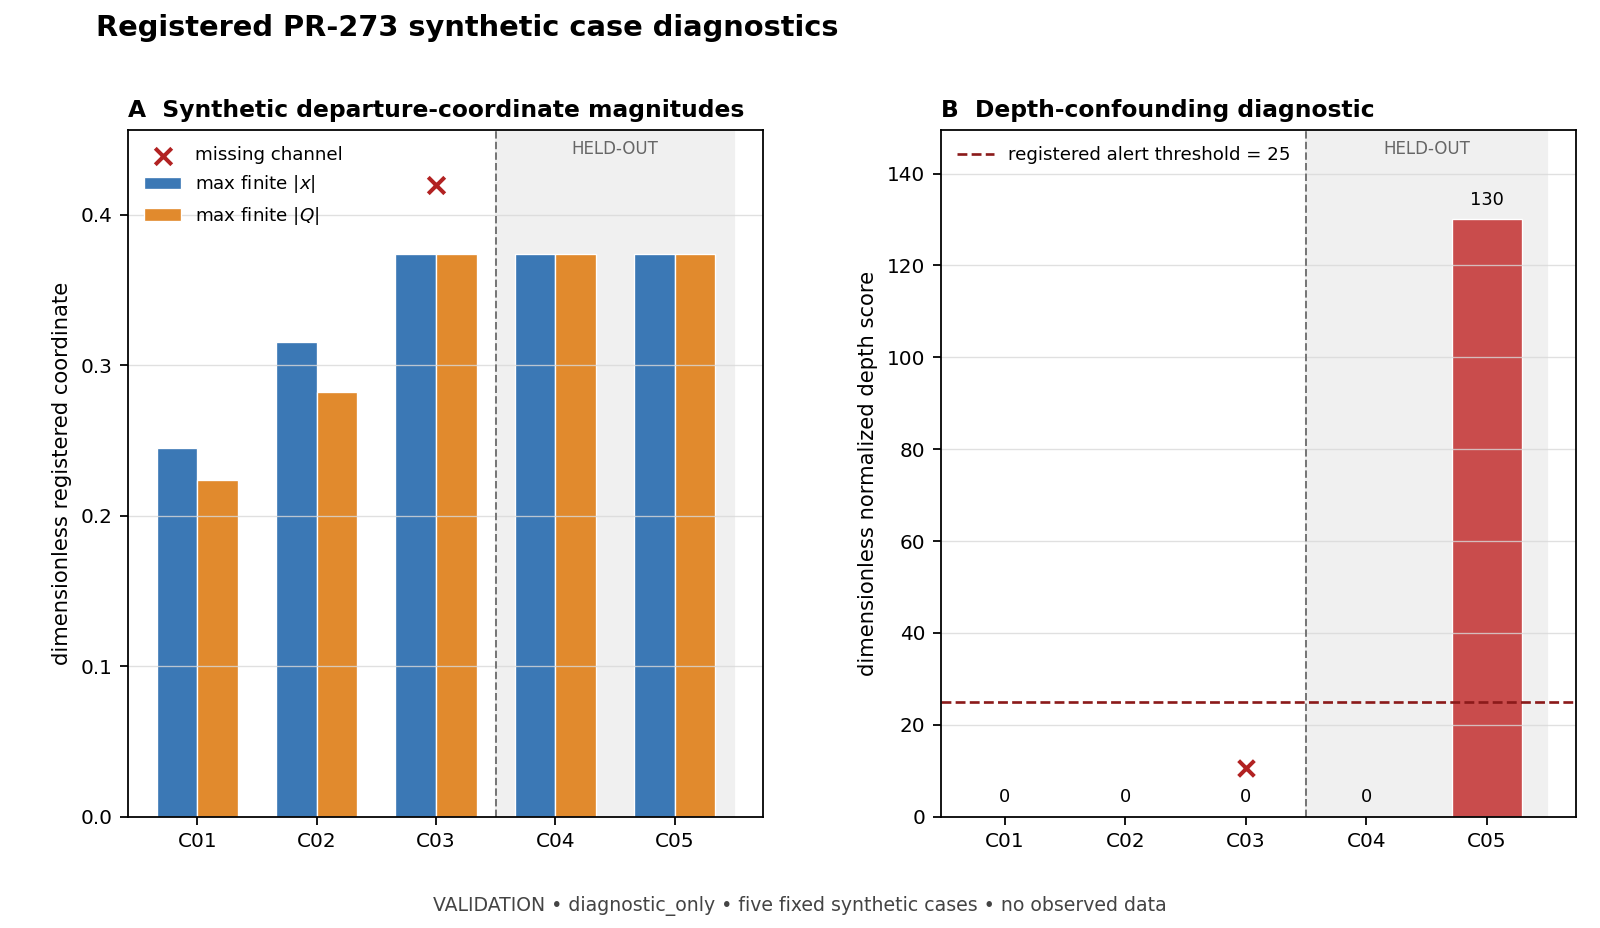
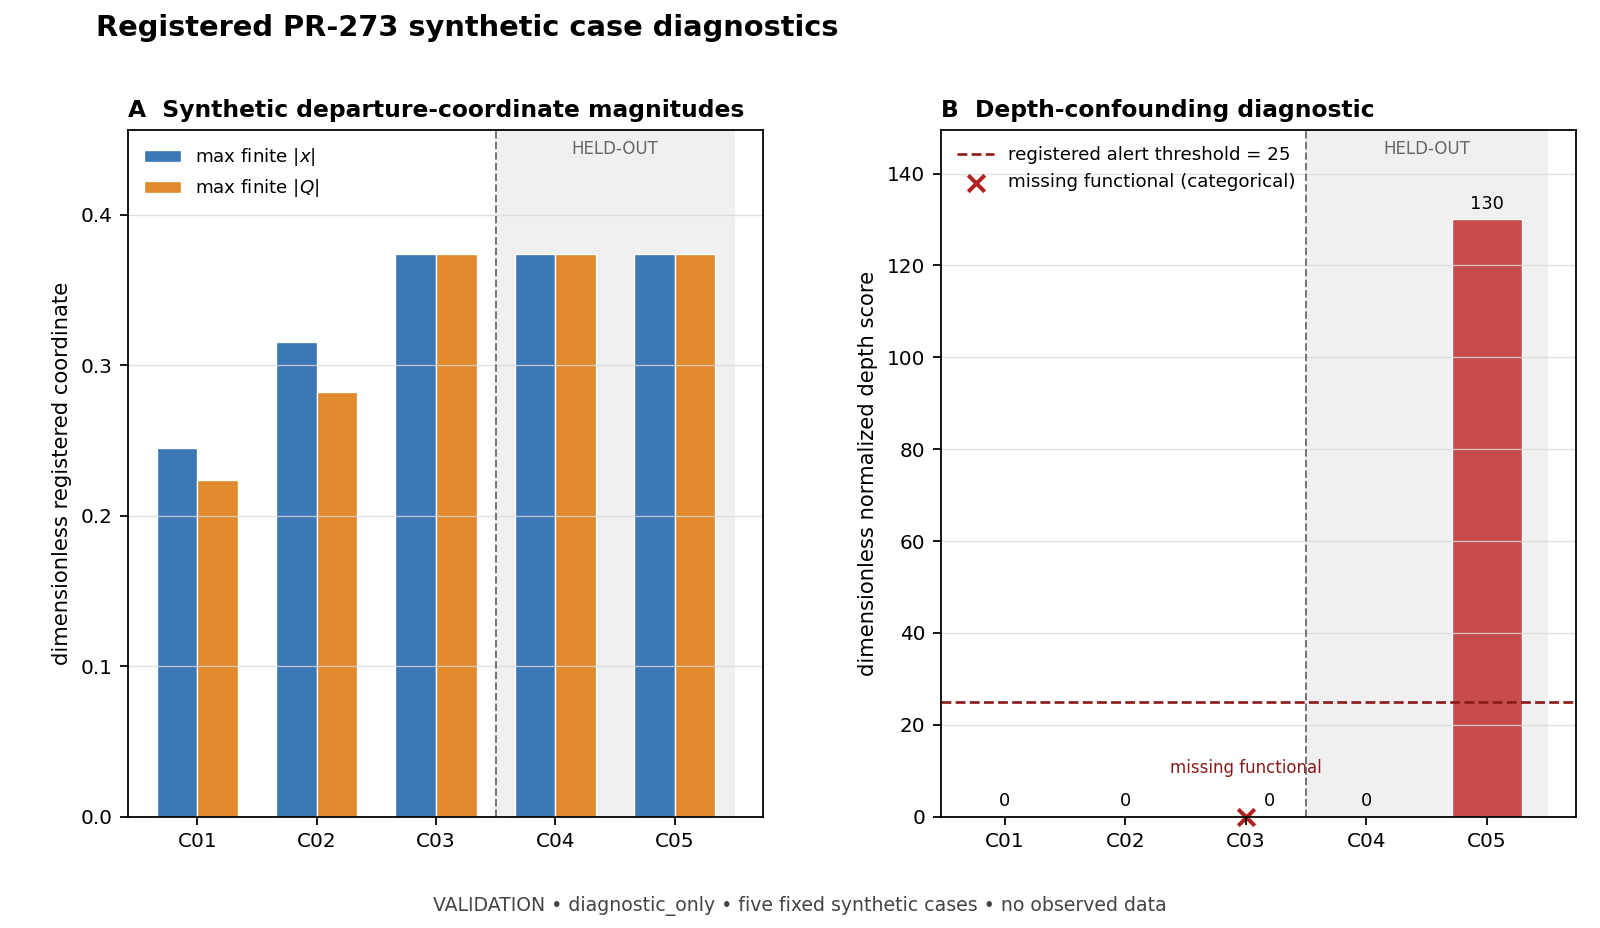
PR-275: correct report encoding and replay guards

diff --git a/scripts/vector_tensor/build_pr275_proof_atlas.py b/scripts/vector_tensor/build_pr275_proof_atlas.py
@@ -30,6 +30,7 @@ os.environ.setdefault("MPLCONFIGDIR", "/tmp/htt-pr275-matplotlib-cache")
 
 ROOT = Path(__file__).resolve().parents[2]
 SPEC = ROOT / "docs/research_program/vector_tensor/pr275_spec.yaml"
+RUNNER = ROOT / "scripts/codex_harness/run_pr275_report.py"
 REPORT_DIR = ROOT / "docs/research_program/vector_tensor/report"
 ATLAS_JSON = REPORT_DIR / "PROOF_ATLAS.json"
 ATLAS_MD = REPORT_DIR / "PROOF_ATLAS.md"
@@ -515,6 +516,38 @@ def build_proof_atlas(
     proposal_entries = _require_records(proposal.get("entries"), label="proposal entries")
     if len(proposal_entries) != 58:
         raise RuntimeError("proposal registry row count drifted")
+    proposal_ids = [record.get("id") for record in proposal_entries]
+    if any(not isinstance(entry_id, str) or not entry_id for entry_id in proposal_ids):
+        raise RuntimeError("proposal registry contains an invalid id")
+    if len(set(proposal_ids)) != len(proposal_ids):
+        raise RuntimeError("proposal registry contains duplicate ids")
+    signature_proposal_rows = [
+        record
+        for record in source_rows
+        if record["source_group"] == "proposal_registry_rows"
+    ]
+    proposal_contract = [
+        (
+            record.get("id"),
+            record.get("pillar"),
+            record.get("status"),
+            record.get("statement"),
+        )
+        for record in proposal_entries
+    ]
+    signature_contract = [
+        (
+            record["entry_id"],
+            record["source_partition"],
+            record["source_status"],
+            record["statement"],
+        )
+        for record in signature_proposal_rows
+    ]
+    if proposal_contract != signature_contract:
+        raise RuntimeError(
+            "proposal registry rows disagree with the frozen v3 source registry"
+        )
     proposal_rows = [
         {
             "id": record.get("id"),
@@ -675,9 +708,16 @@ def build_synthetic_analysis(
     expected_ids = list(contract["exact_case_ids"])
     if [case.get("case_id") for case in cases] != expected_ids:
         raise RuntimeError("PR-273 synthetic case membership/order drifted")
+    verdict_ids = [record.get("case_id") for record in verdicts]
+    if verdict_ids != expected_ids:
+        raise RuntimeError("PR-273 case-verdict membership/order drifted")
+    for record in verdicts:
+        scenario = record.get("scenario")
+        if not isinstance(scenario, str) or not scenario.strip():
+            raise RuntimeError(
+                f"PR-273 case verdict {record.get('case_id')!r} lacks a scenario"
+            )
     scenario_by_id = {record.get("case_id"): record.get("scenario") for record in verdicts}
-    if set(scenario_by_id) != set(expected_ids):
-        raise RuntimeError("PR-273 case-verdict membership drifted")
 
     def finite_abs_max(values: object, *, label: str) -> float:
         if not isinstance(values, list):
@@ -755,7 +795,19 @@ def build_synthetic_analysis(
             "max_finite_abs_x": "dimensionless registered normalized diagnostic coordinate",
             "max_finite_abs_q": "dimensionless registered normalized stress coordinate",
             "depth_mean_normalized_score": "dimensionless normalized score",
+            "missing_functional": "categorical boolean; no numeric unit",
             "case_id": "categorical",
+        },
+        "categorical_encodings": {
+            "missing_functional": {
+                "source_type": "boolean",
+                "true_marker": "x",
+                "panel": "B",
+                "data_coordinate_anchor": "depth_mean_normalized_score",
+                "label": "missing functional",
+                "label_position": "display-only point offset from the data anchor",
+                "display_offset_has_data_semantics": False,
+            }
         },
         "normalization": {
             "x_q": "finite absolute maximum within each case; no cross-case rescaling",
@@ -846,9 +898,6 @@ def build_figure_bytes(analysis: Mapping[str, object]) -> bytes:
         fontsize=7.5,
     )
     y_top = max(float(x_values.max()), float(q_values.max())) * 1.22
-    for index, is_missing in enumerate(missing):
-        if is_missing:
-            axes[0].scatter(index, y_top * 0.92, marker="x", s=55, color="#b22222", linewidth=1.8, label="missing channel" if index == 2 else None)
     axes[0].set_ylim(0.0, y_top)
     axes[0].set_xticks(positions, case_ids)
     axes[0].set_ylabel("dimensionless registered coordinate")
@@ -872,9 +921,36 @@ def build_figure_bytes(analysis: Mapping[str, object]) -> bytes:
         fontsize=7.5,
     )
     for index, value in enumerate(depth):
-        axes[1].text(index, value + max(depth.max() * 0.018, 1.3), f"{value:g}", ha="center", va="bottom", fontsize=8)
+        axes[1].annotate(
+            f"{value:g}",
+            xy=(index, value),
+            xytext=((8, 3) if missing[index] else (0, 3)),
+            textcoords="offset points",
+            ha=("left" if missing[index] else "center"),
+            va="bottom",
+            fontsize=8,
+        )
         if missing[index]:
-            axes[1].scatter(index, threshold * 0.42, marker="x", s=50, color="#b22222", linewidth=1.8)
+            axes[1].scatter(
+                index,
+                value,
+                marker="x",
+                s=55,
+                color="#b22222",
+                linewidth=1.8,
+                clip_on=False,
+                label="missing functional (categorical)",
+            )
+            axes[1].annotate(
+                "missing functional",
+                xy=(index, value),
+                xytext=(0, 18),
+                textcoords="offset points",
+                ha="center",
+                va="bottom",
+                fontsize=7.5,
+                color="#8b1a1a",
+            )
     axes[1].set_ylim(0.0, max(depth.max() * 1.15, threshold * 1.35))
     axes[1].set_xticks(positions, case_ids)
     axes[1].set_ylabel("dimensionless normalized depth score")
@@ -952,6 +1028,7 @@ def build_figure_manifest(
         "normalization": analysis.get("normalization"),
         "frame": analysis.get("frame"),
         "coordinates": analysis.get("coordinates"),
+        "categorical_encodings": analysis.get("categorical_encodings"),
         "seed": analysis["source_pack"]["seed"],
         "generator": {
             "path": "scripts/vector_tensor/build_pr275_proof_atlas.py",
@@ -1080,6 +1157,10 @@ def build_replication_package(
     import numpy
 
     prereg = sources["pr272_preregistration"]["preregistration"]
+    workflow_identities = {
+        str(path.relative_to(ROOT)): "sha256:" + _sha256(path)
+        for path in (SPEC, Path(__file__).resolve(), RUNNER)
+    }
     payload: dict[str, object] = {
         "schema": "htt.pr275.replication_package.v1",
         "package_id": "PR275-REPLICATION-PACKAGE-V1",
@@ -1110,6 +1191,7 @@ def build_replication_package(
             "source_layout": "PYTHONPATH=htt/src:htt",
         },
         "source_identities": dict(source_hashes),
+        "workflow_identities": dict(sorted(workflow_identities.items())),
         "generated_artifact_identities": dict(generated_hashes),
         "seeds": {
             "pr272_master_seed": prereg["random_stream"]["master_seed"],
@@ -1208,7 +1290,7 @@ def build_program_report(
             "",
             "## Interpretation",
             "",
-            "The fixed cases exercise scalar-limit, tensor-only, missing-channel, local/global-degenerate, and mask/depth-confounded paths. C05 crosses the registered depth alert threshold; C03 retains a missing functional channel. These are pipeline-behavior diagnostics on the registered synthetic benchmark.",
+            "The fixed cases exercise scalar-limit, tensor-only, missing-channel, local/global-degenerate, and mask/depth-confounded paths. C05 crosses the registered depth alert threshold; C03 retains a missing functional channel. The C03 cross is anchored at its actual depth score of zero; its text uses a display-only point offset and carries no numerical y meaning. These are pipeline-behavior diagnostics on the registered synthetic benchmark.",
             "",
             "## What this plot does not show",
             "",
@@ -1233,7 +1315,7 @@ def build_program_report(
             "",
             "## Replication package",
             "",
-            f"`REPLICATION_PACKAGE.json` (`{replication['content_id']}`) records commands, environment versions, source identities, generated artifact hashes, PR-272 seed/tolerance contracts, the PR-273 seed/config identity, caveats, and the diagnostic-only claim ceiling.",
+            f"`REPLICATION_PACKAGE.json` (`{replication['content_id']}`) records commands, environment versions, frozen source identities, exact PR-275 spec/generator/runner workflow identities, generated artifact hashes, PR-272 seed/tolerance contracts, the PR-273 seed/config identity, caveats, and the diagnostic-only claim ceiling.",
             "",
             "## Claim boundary",
             "",

diff --git a/tests/contracts/test_vector_tensor_report.py b/tests/contracts/test_vector_tensor_report.py
@@ -29,6 +29,7 @@ S_INFERENCE = ROOT / "docs/research_program/vector_tensor/proofs/PILLAR_S_INFERE
 PR273_PACK = ROOT / "docs/research_program/vector_tensor/integration/PR273_DIAGNOSTIC_PACK.json"
 PR274_RESULT = ROOT / "docs/research_program/vector_tensor/data_admission/PR274_ADMISSION_RESULT.json"
 GENERATOR = ROOT / "scripts/vector_tensor/build_pr275_proof_atlas.py"
+RUNNER = ROOT / "scripts/codex_harness/run_pr275_report.py"
 REPORT_DIR = ROOT / "docs/research_program/vector_tensor/report"
 ATLAS = REPORT_DIR / "PROOF_ATLAS.json"
 ATLAS_MD = REPORT_DIR / "PROOF_ATLAS.md"
@@ -233,6 +234,7 @@ def test_synthetic_analysis_is_bound_to_five_registered_cases() -> None:
     assert analysis["source_pack"]["seed"] == pack["seed"] == 27320260730
     assert analysis["observed_data"] is False
     assert rows[2]["missing_functional"] is True
+    assert rows[2]["depth_mean_normalized_score"] == 0.0
     assert rows[4]["depth_mean_normalized_score"] == 130.0
     assert rows[4]["depth_alert"] is True
     for source_record, derived in zip(pack["case_results"], rows, strict=True):
@@ -254,6 +256,16 @@ def test_figure_is_exactly_one_validation_category_and_synthetic_only() -> None:
     assert manifest["transfer_source"] == "none"
     assert manifest["sky_support_status"] == "synthetic_not_applicable"
     assert manifest["source_json"]["path"].endswith("SYNTHETIC_CASE_ANALYSIS.json")
+    assert manifest["units"]["missing_functional"] == "categorical boolean; no numeric unit"
+    assert manifest["categorical_encodings"]["missing_functional"] == {
+        "source_type": "boolean",
+        "true_marker": "x",
+        "panel": "B",
+        "data_coordinate_anchor": "depth_mean_normalized_score",
+        "label": "missing functional",
+        "label_position": "display-only point offset from the data anchor",
+        "display_offset_has_data_semantics": False,
+    }
     with Image.open(BytesIO(FIGURE.read_bytes())) as image:
         assert image.format == "PNG"
         assert image.size == (1600, 928)
@@ -280,6 +292,8 @@ def test_report_has_plot_summary_provenance_and_explicit_nonclaims() -> None:
 
 
 def test_replication_package_carries_commands_environment_seeds_and_tolerances() -> None:
+    import hashlib
+
     package = _json(REPLICATION)
     assert package["claim_ceiling"] == "diagnostic_only"
     assert package["observed_data"] is False
@@ -297,6 +311,10 @@ def test_replication_package_carries_commands_environment_seeds_and_tolerances()
     assert package["tolerances_and_acceptance"]["pr272_rank_tolerance"] == 1.0e-12
     assert package["tolerances_and_acceptance"]["pr273_depth_alert_threshold"] == 25.0
     assert package["source_identities"]
+    assert package["workflow_identities"] == {
+        str(path.relative_to(ROOT)): "sha256:" + hashlib.sha256(path.read_bytes()).hexdigest()
+        for path in (SPEC, GENERATOR, RUNNER)
+    }
     assert package["generated_artifact_identities"]
 
 
@@ -399,6 +417,44 @@ def test_data_admission_and_synthetic_membership_mutations_fail_closed() -> None
             spec=spec,
             pack=pack,
             pack_sha256="0" * 64,
+        )
+
+    duplicate_verdict = copy.deepcopy(sources["pr273_diagnostic_pack"])
+    duplicate_verdict["case_verdicts"].append(
+        copy.deepcopy(duplicate_verdict["case_verdicts"][0])
+    )
+    duplicate_verdict["case_verdicts"][-1]["scenario"] = "DUPLICATE_SENTINEL"
+    with pytest.raises(RuntimeError, match="case-verdict membership/order drifted"):
+        module.build_synthetic_analysis(
+            spec=spec,
+            pack=duplicate_verdict,
+            pack_sha256="0" * 64,
+        )
+
+
+def test_duplicate_or_cross_registry_proposal_identity_fails_closed() -> None:
+    module = _module()
+    spec = module._load_yaml(SPEC)
+    sources, source_hashes = module._verify_frozen_inputs(spec)
+
+    duplicate = copy.deepcopy(sources)
+    duplicate["proposal_registry"]["entries"][1]["id"] = duplicate[
+        "proposal_registry"
+    ]["entries"][0]["id"]
+    with pytest.raises(RuntimeError, match="proposal registry contains duplicate ids"):
+        module.build_proof_atlas(
+            spec=spec,
+            sources=duplicate,
+            source_hashes=source_hashes,
+        )
+
+    disagreeing = copy.deepcopy(sources)
+    disagreeing["proposal_registry"]["entries"][0]["statement"] += " MUTATED"
+    with pytest.raises(RuntimeError, match="disagree with the frozen v3 source registry"):
+        module.build_proof_atlas(
+            spec=spec,
+            sources=disagreeing,
+            source_hashes=source_hashes,
         )
 
 

diff --git a/docs/PR_DELTAS/pr-275.md b/docs/PR_DELTAS/pr-275.md
@@ -58,9 +58,23 @@ atlas, detect geometry, or identify/rank a Bianchi family.
    source identities, generated artifact identities, seeds, tolerances,
    caveats, and the claim ceiling. Live final-commit bytes are excluded to
    avoid a self-referential generated artifact.
-8. Added a portable focused/adjacent/smoke runner and 24 contract tests,
+8. Added a portable focused/adjacent/smoke runner and 25 contract tests,
    including source-mutation, status-promotion, count-alias, data-boundary,
    plot-manifest, determinism, and claim-language regressions.
+9. R1 adversarial review was preserved at
+   `.agent-harness/runs/pr275-final-review-20260801-r1/RUN_SUMMARY.json` as a
+   failed, non-accepting receipt. It found one high-severity duplicate
+   `case_verdict` overwrite, two medium proposal-ID/replay-provenance defects,
+   and one medium categorical plot-encoding defect. The harness review also
+   self-reported blind-results contamination and therefore remains `error`,
+   not acceptance evidence.
+10. Remediation now rejects duplicate or reordered case verdicts, requires the
+    58-row proposal registry to agree exactly with the frozen v3 source rows,
+    and records exact PR-275 spec/generator/runner workflow identities.
+11. The missing-functional cross was removed from Panel A and is anchored in
+    Panel B at the case's actual depth-score coordinate (C03 = 0). Its label
+    uses a display-only point offset, and the manifest declares the boolean
+    categorical encoding and its lack of numeric units.
 
 ## Generated evidence disposition
 
@@ -89,11 +103,12 @@ governance/readiness graphic, observed-data result, or family label.
 
 | Command | Result |
 | --- | --- |
-| `python -B scripts/codex_harness/run_pr275_report.py focused` | `24 passed` |
+| `python -B scripts/codex_harness/run_pr275_report.py focused` | `25 passed` after R1 remediation |
 | `python -B scripts/codex_harness/run_pr275_report.py adjacent` | `209 passed` outside the filesystem sandbox |
-| `python -B scripts/codex_harness/run_pr275_report.py smoke` | `8 passed`, `10563 deselected`, 8 retained legacy deprecation warnings |
-| source-layout collection | `10512/10571 collected`, 59 deselected |
+| `python -B scripts/codex_harness/run_pr275_report.py smoke` | `8 passed`, `10564 deselected`, 8 retained legacy deprecation warnings |
+| source-layout collection | `10513/10572 collected`, 59 deselected |
 | generator build followed by two `--check` replays | deterministic pass |
+| first full repository suite on candidate `e63574e0...` | `10037 passed`, `406 failed`, `69 skipped`, `59 deselected`, `15 xfailed`, 1 subtest passed in 1:29:29 |
 
 The first broad adjacent invocation included three unrelated environment
 failures: Wolfram returned 255 when its user state was read-only, Sage could
@@ -107,6 +122,13 @@ CAS result or proof status was regenerated or promoted by PR-275.
 Strict DAG, mirror, claim-language, compilation, diff, full-suite, and
 candidate-bound adversarial-review results are recorded at closeout; the
 current candidate is not acceptance authority.
+
+The broad-suite failures were outside the PR-275 focused surface and included
+missing historical gallery/package outputs, stale byte-current contracts,
+CF4 quarantine/inventory checks, and other repository-wide historical
+reproducibility paths. No PR-275 test appeared in the failure list. They are
+not hidden or relabelled as a pass; the exact final candidate is rerun at
+closeout and the result is recorded separately.
 
 ## Scientific disposition
 

diff --git a/docs/research_program/vector_tensor/report/VECTOR_TENSOR_PROGRAM_REPORT.md b/docs/research_program/vector_tensor/report/VECTOR_TENSOR_PROGRAM_REPORT.md
@@ -33,7 +33,7 @@ Panel A plots `max_finite_abs_x` and `max_finite_abs_q`, both dimensionless regi
 
 ## Data/script/manifest provenance
 
-The source JSON is `SYNTHETIC_CASE_ANALYSIS.json` (file identity `sha256:c69ee6fefcf6fecdba26f381dc315f6338d0256ef0eb20aedd401b34d9abbdb5`), derived from the exact PR-273 diagnostic pack at seed `27320260730`. The generator is `scripts/vector_tensor/build_pr275_proof_atlas.py`; the figure manifest is `fig_pr275_synthetic_case_diagnostics.manifest.json` (canonical content identity `sha256:7dac865ca2f3b240ef83acce3e131642199586bb2c0f983b8a2b2cd52b9309dc`). Its exact file identity is recorded separately in `REPLICATION_PACKAGE.json`.
+The source JSON is `SYNTHETIC_CASE_ANALYSIS.json` (file identity `sha256:5097d278545194f783fe075e7b03878d94ec34984531358f51780c977bba0a3f`), derived from the exact PR-273 diagnostic pack at seed `27320260730`. The generator is `scripts/vector_tensor/build_pr275_proof_atlas.py`; the figure manifest is `fig_pr275_synthetic_case_diagnostics.manifest.json` (canonical content identity `sha256:96d1c16d3dbe1ab8abc8d3c9e2cebb542ac45360f3ae5975f258435561b9fb7f`). Its exact file identity is recorded separately in `REPLICATION_PACKAGE.json`.
 
 ## Category and claim tier
 
@@ -41,7 +41,7 @@ Category: `VALIDATION` (exactly one category). Artifact mode: `synthetic_diagnos
 
 ## Interpretation
 
-The fixed cases exercise scalar-limit, tensor-only, missing-channel, local/global-degenerate, and mask/depth-confounded paths. C05 crosses the registered depth alert threshold; C03 retains a missing functional channel. These are pipeline-behavior diagnostics on the registered synthetic benchmark.
+The fixed cases exercise scalar-limit, tensor-only, missing-channel, local/global-degenerate, and mask/depth-confounded paths. C05 crosses the registered depth alert threshold; C03 retains a missing functional channel. The C03 cross is anchored at its actual depth score of zero; its text uses a display-only point offset and carries no numerical y meaning. These are pipeline-behavior diagnostics on the registered synthetic benchmark.
 
 ## What this plot does not show
 
@@ -63,7 +63,7 @@ Observed-data publication would require separately admitted inputs, exact mask/c
 
 ## Replication package
 
-`REPLICATION_PACKAGE.json` (`sha256:a18f6e0470d6dc5ea0131fb987642ab767056d5b92a3db310b6a61dcdfc053f9`) records commands, environment versions, source identities, generated artifact hashes, PR-272 seed/tolerance contracts, the PR-273 seed/config identity, caveats, and the diagnostic-only claim ceiling.
+`REPLICATION_PACKAGE.json` (`sha256:8380d179163cbe4e976c484e1b3908207053b89fcd157993d6b61ef5848ff224`) records commands, environment versions, frozen source identities, exact PR-275 spec/generator/runner workflow identities, generated artifact hashes, PR-272 seed/tolerance contracts, the PR-273 seed/config identity, caveats, and the diagnostic-only claim ceiling.
 
 ## Claim boundary
 
